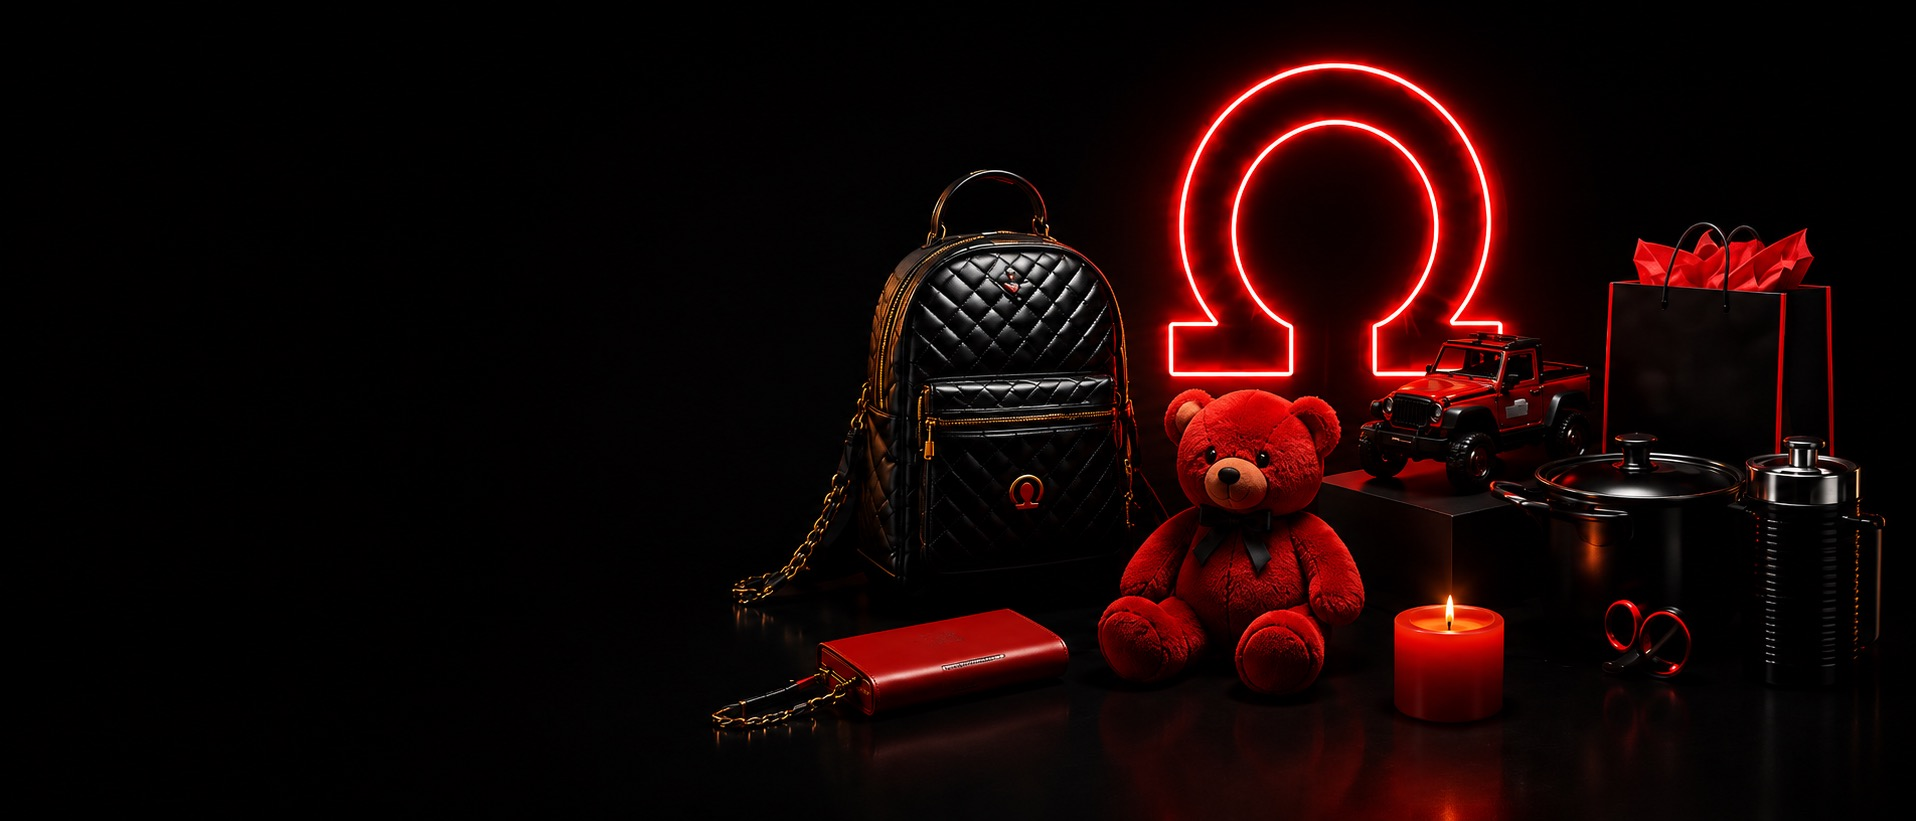
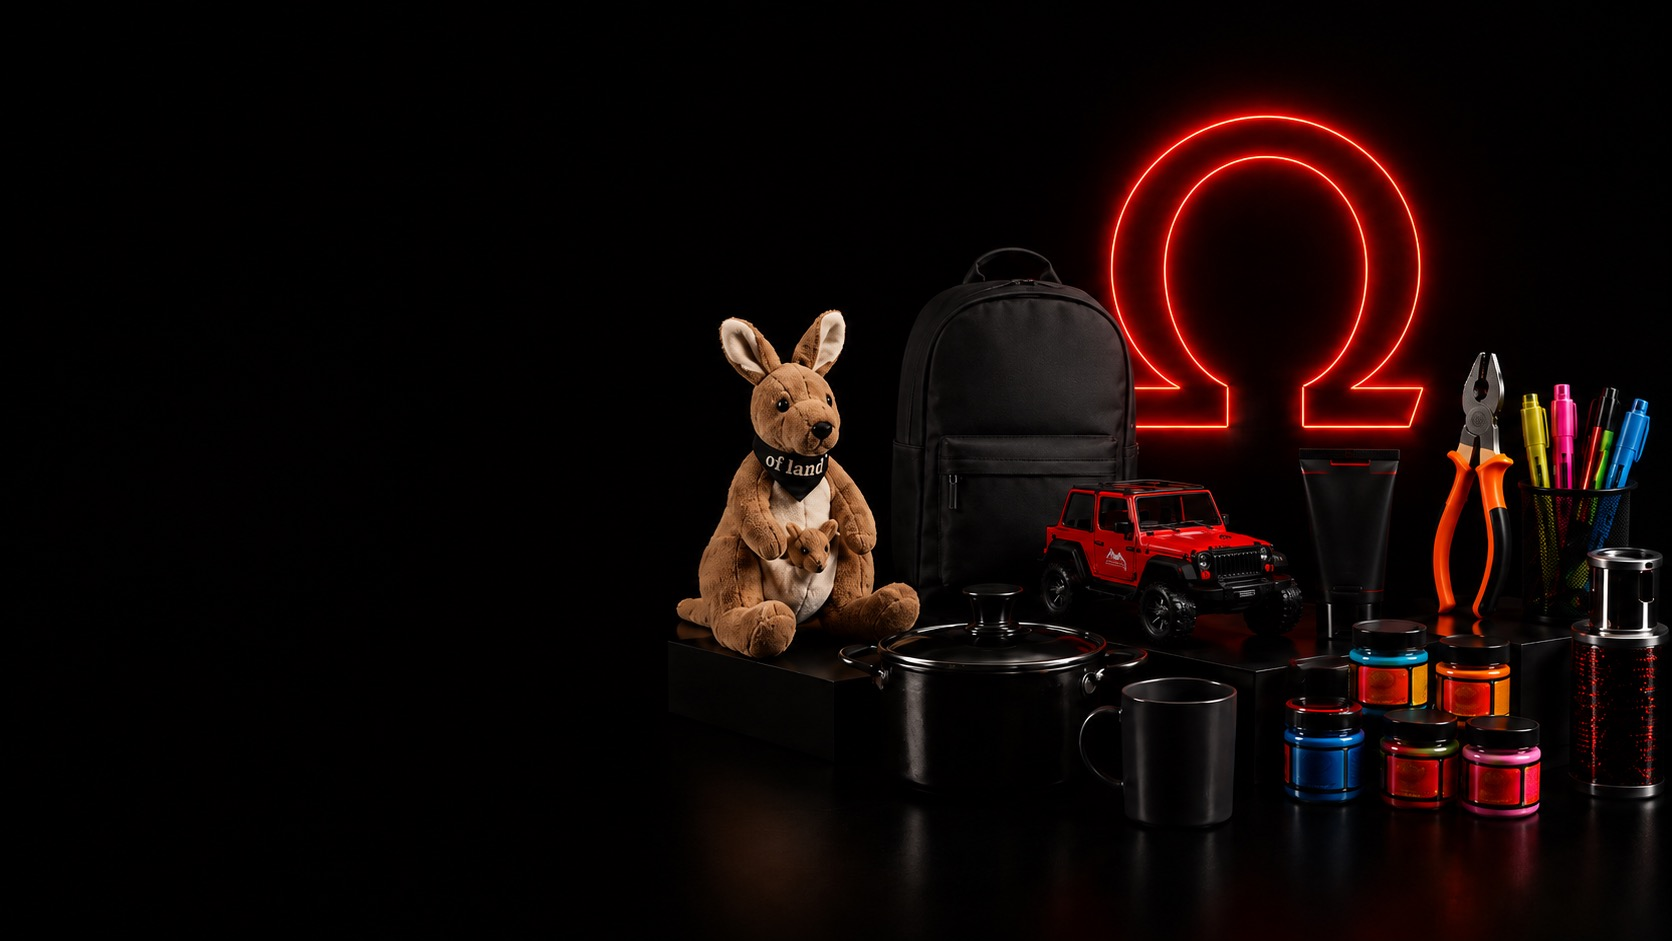
feat(landing): replace hero background with Image 94 product shot
Dark left side naturally frames the text. Gradient removed almost entirely
since image is already black on the left. Products + neon on the right.

Changed region(s): [[0.3732, 0.0305, 0.9952, 1.0], [0.3732, 0.7004, 0.4043, 0.7613], [0.4976, 0.2132, 0.5287, 0.2436]]

diff --git a/src/landing.css b/src/landing.css
@@ -144,8 +144,8 @@
 .hero-photo-bg {
   grid-template-columns: 1fr;
   background:
-    linear-gradient(to right, rgba(0,0,0,0.72) 0%, rgba(0,0,0,0.4) 60%, rgba(0,0,0,0.15) 100%),
-    url('/hero-bg.jpg') center / cover no-repeat;
+    linear-gradient(to right, rgba(0,0,0,0.15) 0%, rgba(0,0,0,0.05) 50%, rgba(0,0,0,0) 100%),
+    url('/hero-bg.jpg') center right / cover no-repeat;
 }
 
 .hero-photo-bg h1 {
@@ -2460,8 +2460,8 @@
     justify-content: flex-end;
     padding: 0 24px 52px !important;
     background:
-      linear-gradient(to top, rgba(0,0,0,0.88) 0%, rgba(0,0,0,0.45) 45%, rgba(0,0,0,0.1) 100%),
-      url('/hero-bg.jpg') center / cover no-repeat !important;
+      linear-gradient(to top, rgba(0,0,0,0.7) 0%, rgba(0,0,0,0.2) 50%, rgba(0,0,0,0) 100%),
+      url('/hero-bg.jpg') center right / cover no-repeat !important;
   }
 
   .hero-photo-bg .access-hero-copy {
